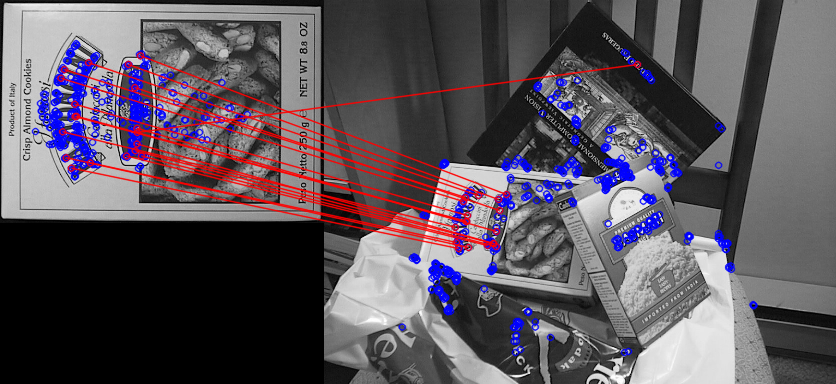
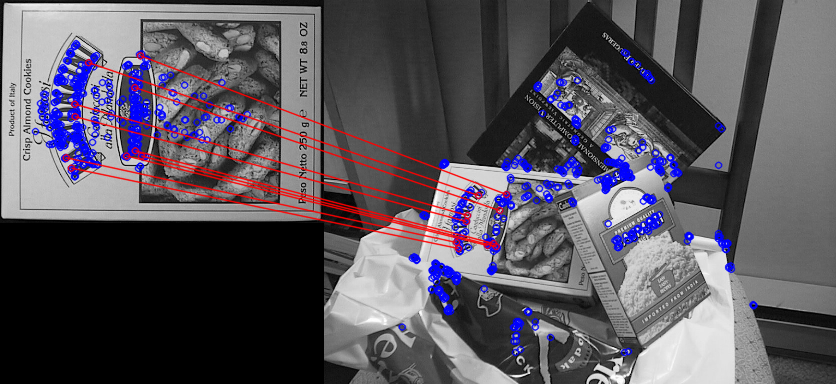
a

diff --git a/akaze.py b/akaze.py
@@ -11,35 +11,45 @@ import matplotlib.pyplot as plt
 
   #%%
 cv2.ocl.setUseOpenCL(False)
-img = cv2.imread('data/starbucks.jpg')
-img1=cv2.imread('data/starbucks1.jpg')
+img1 = cv2.imread('data/starbucks.jpg')
+img2=cv2.imread('data/starbucks1.jpg')
 
 # Initiate STAR detector
 fd = cv2.AKAZE_create()
-kp,des=fd.detectAndCompute(img,None)
 kp1,des1=fd.detectAndCompute(img1,None)
+kp2,des2=fd.detectAndCompute(img2,None)
 
-matcher=cv2.BFMatcher(cv2.NORM_HAMMING,crossCheck=True)
-#FLANN_INDEX_LSH=6
-#flann_params= dict(algorithm = FLANN_INDEX_LSH,
-#                   table_number = 6, # 12
-#                  key_size = 12,     # 20
-#                   multi_probe_level = 1) #2
-#matcher=cv2.FlannBasedMatcher(flann_params, {}) 
-matches=matcher.match(des,des1)
+#matcher=cv2.BFMatcher(cv2.NORM_HAMMING,crossCheck=True) crossCheck = True only when k=1
+matcher=cv2.BFMatcher(cv2.NORM_HAMMING,crossCheck=False)
 
-matches = sorted(matches, key = lambda x:x.distance)
+matches=matcher.knnMatch(des1,des2,k=2)
+
+matchesMask = [[0,0] for i in range(len(matches))]
+
+# ratio test as per Lowe's paper
+num_good_matches = 0
+for i,(m,n) in enumerate(matches):
+    if m.distance < 0.6*n.distance:
+        matchesMask[i]=[1,0]
+        num_good_matches += 1
+
+print("Num of good matches:",num_good_matches)
 
 
-img2 = cv2.drawMatches(img,kp,img1,kp1,matches[:20],None, flags=2)
+draw_params = dict(matchColor = (0,255,0),
+                   singlePointColor = (255,0,0),
+                   matchesMask = matchesMask,
+                   flags = 0)
+
+img3 = cv2.drawMatchesKnn(img1,kp1,img2,kp2,matches,None,**draw_params)
 
 try:
   cv2.namedWindow("Pic",cv2.WINDOW_NORMAL)
-  cv2.imshow("Pic",img2)
+  cv2.imshow("Pic",img3)
   cv2.resizeWindow("Pic",1920,1080)
 
   if cv2.waitKey(0)  ==ord('q'):
     cv2.destroyAllWindows()
 except:
   pass
-cv2.imwrite("output/starbucks_match.png",img2)
+cv2.imwrite("output/starbucks_match.png",img3)

diff --git a/flannmatcher.py b/flannmatcher.py
@@ -11,17 +11,14 @@ import matplotlib.pyplot as plt
 
   #%%
 cv2.ocl.setUseOpenCL(False)
-img = cv2.imread('data/box.png')
-img1=cv2.imread('data/box_in_scene.png')
+img1 = cv2.imread('data/box.png')
+img2=cv2.imread('data/box_in_scene.png')
 
 # Initiate STAR detector
 fd=cv2.ORB_create()
 #fd = cv2.AKAZE_create()
-kp,des=fd.detectAndCompute(img,None)
 kp1,des1=fd.detectAndCompute(img1,None)
-
-#matcher=cv2.BFMatcher(cv2.NORM_HAMMING2,crossCheck=True)
-#matcher=cv2.BFMatcher(cv2.NORM_L2,crossCheck=True)
+kp2,des2=fd.detectAndCompute(img2,None)
 
 
 FLANN_INDEX_LSH    = 6
@@ -31,29 +28,34 @@ flann_params= dict(algorithm = FLANN_INDEX_LSH,
                    multi_probe_level = 1) #2
 matcher=cv2.FlannBasedMatcher(flann_params,{}) 
 
-matches=matcher.knnMatch(des,des1,k=2)
+matches=matcher.knnMatch(des1,des2,k=2)
 
 #Need to draw only good matches, so create a mask
 matchesMask = [[0,0] for i in range(len(matches))]
 
 # ratio test as per Lowe's paper
+num_good_matches = 0
 for i,(m,n) in enumerate(matches):
-    if m.distance < 0.7*n.distance:
+    if m.distance < 0.58*n.distance:
         matchesMask[i]=[1,0]
+        num_good_matches += 1
+
+print("Num of good matches:",num_good_matches)
+
 
 draw_params = dict(matchColor = (0,0,255),
                    singlePointColor = (255,0,0),
                    matchesMask = matchesMask,
                    flags = 0)
 
-img2 = cv2.drawMatchesKnn(img,kp,img1,kp1,matches,None,**draw_params)
+img3 = cv2.drawMatchesKnn(img1,kp1,img2,kp2,matches,None,**draw_params)
 
 
 
 
 try:
   cv2.namedWindow("Pic",cv2.WINDOW_NORMAL)
-  cv2.imshow("Pic",img2)
+  cv2.imshow("Pic",img3)
   cv2.resizeWindow("Pic",1920,1080)
 
   if cv2.waitKey(0)  ==ord('q'):
@@ -61,4 +63,4 @@ try:
 except:
   pass
 
-cv2.imwrite("output/box_match.png",img2)
+cv2.imwrite("output/box_match.png",img3)
